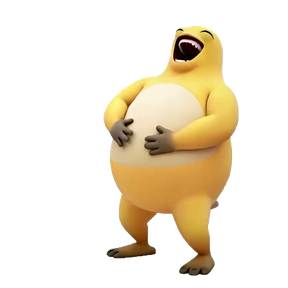
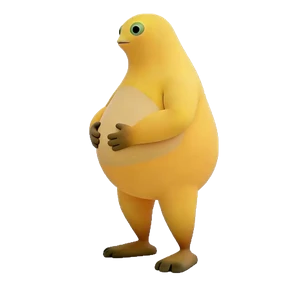
Use neutral standing idle for renamed Nailong pet

Changed region(s): [[0.2812, 0.0312, 0.8438, 0.9688]]

diff --git a/tests/pet-animation.test.js b/tests/pet-animation.test.js
@@ -3,14 +3,14 @@ import assert from 'node:assert/strict';
 import {readFileSync} from 'node:fs';
 import {createPetAnimation} from '../scripts/pet-animation.js';
 
-test('the video pet stays on its first frame, plays once without restarting, then resumes following',()=>{
+test('the video pet stays on its neutral standing frame, plays once without restarting, then resumes following',()=>{
   const meta=JSON.parse(readFileSync(new URL('../assets/workshop/animals/animal-900000104-animation.json',import.meta.url)));
   const p=createPetAnimation(meta),duration=meta.clips.pet.count/meta.clips.pet.fps*1000;
-  assert.equal(p.clickClip,true);assert.equal(p.frame(0),0);assert.equal(p.frame(60000),0);
+  assert.equal(p.clickClip,true);assert.equal(p.frame(0),228);assert.equal(p.frame(60000),228);
   assert.equal(p.click(61000),true);assert.equal(p.frame(61500),8);
   assert.equal(p.click(62000),false);assert.equal(p.frame(62000),16);
   assert.equal(p.paused(61000+duration-1),true);
-  assert.equal(p.frame(61000+duration+1),0);assert.equal(p.paused(61000+duration+1),true);
+  assert.equal(p.frame(61000+duration+1),228);assert.equal(p.paused(61000+duration+1),true);
   assert.equal(p.paused(61000+duration+701),false);
   assert.equal(p.click(80000),true);assert.equal(p.frame(80000),1);
 });

diff --git a/sw.js b/sw.js
@@ -1,4 +1,4 @@
-const CACHE_NAME = "petforge-web-nailong-20261113-r4";
+const CACHE_NAME = "petforge-web-nailong-idle-20261113-r1";
 const APP_SHELL = [
   "./scripts/runtime-manifest.js?v=022d2d9f27e09dde",
   "./scripts/support-group.js?v=nailong-20261113-r4",

diff --git a/tests/test_pet_animation.py b/tests/test_pet_animation.py
@@ -8,18 +8,18 @@ sys.path.insert(0, str(root))
 from pet_animation import PetAnimation
 
 class PetAnimationTests(unittest.TestCase):
-    def test_video_pet_first_frame_one_shot_and_repeat_clicks(self):
+    def test_video_pet_neutral_idle_one_shot_and_repeat_clicks(self):
         meta = json.loads((root / 'assets/workshop/animals/animal-900000104-animation.json').read_text())
         p = PetAnimation(meta)
         duration = meta['clips']['pet']['count'] / meta['clips']['pet']['fps']
         self.assertTrue(p.click_clip)
-        self.assertEqual(p.frame(60), 0)
+        self.assertEqual(p.frame(60), 228)
         self.assertTrue(p.click(61))
         self.assertEqual(p.frame(61.5), 8)
         self.assertFalse(p.click(62))
         self.assertEqual(p.frame(62), 16)
         self.assertTrue(p.paused(61 + duration - .01))
-        self.assertEqual(p.frame(61 + duration + .01), 0)
+        self.assertEqual(p.frame(61 + duration + .01), 228)
         self.assertTrue(p.paused(61 + duration + .01))
         self.assertFalse(p.paused(61 + duration + .71))
         self.assertTrue(p.click(80))
